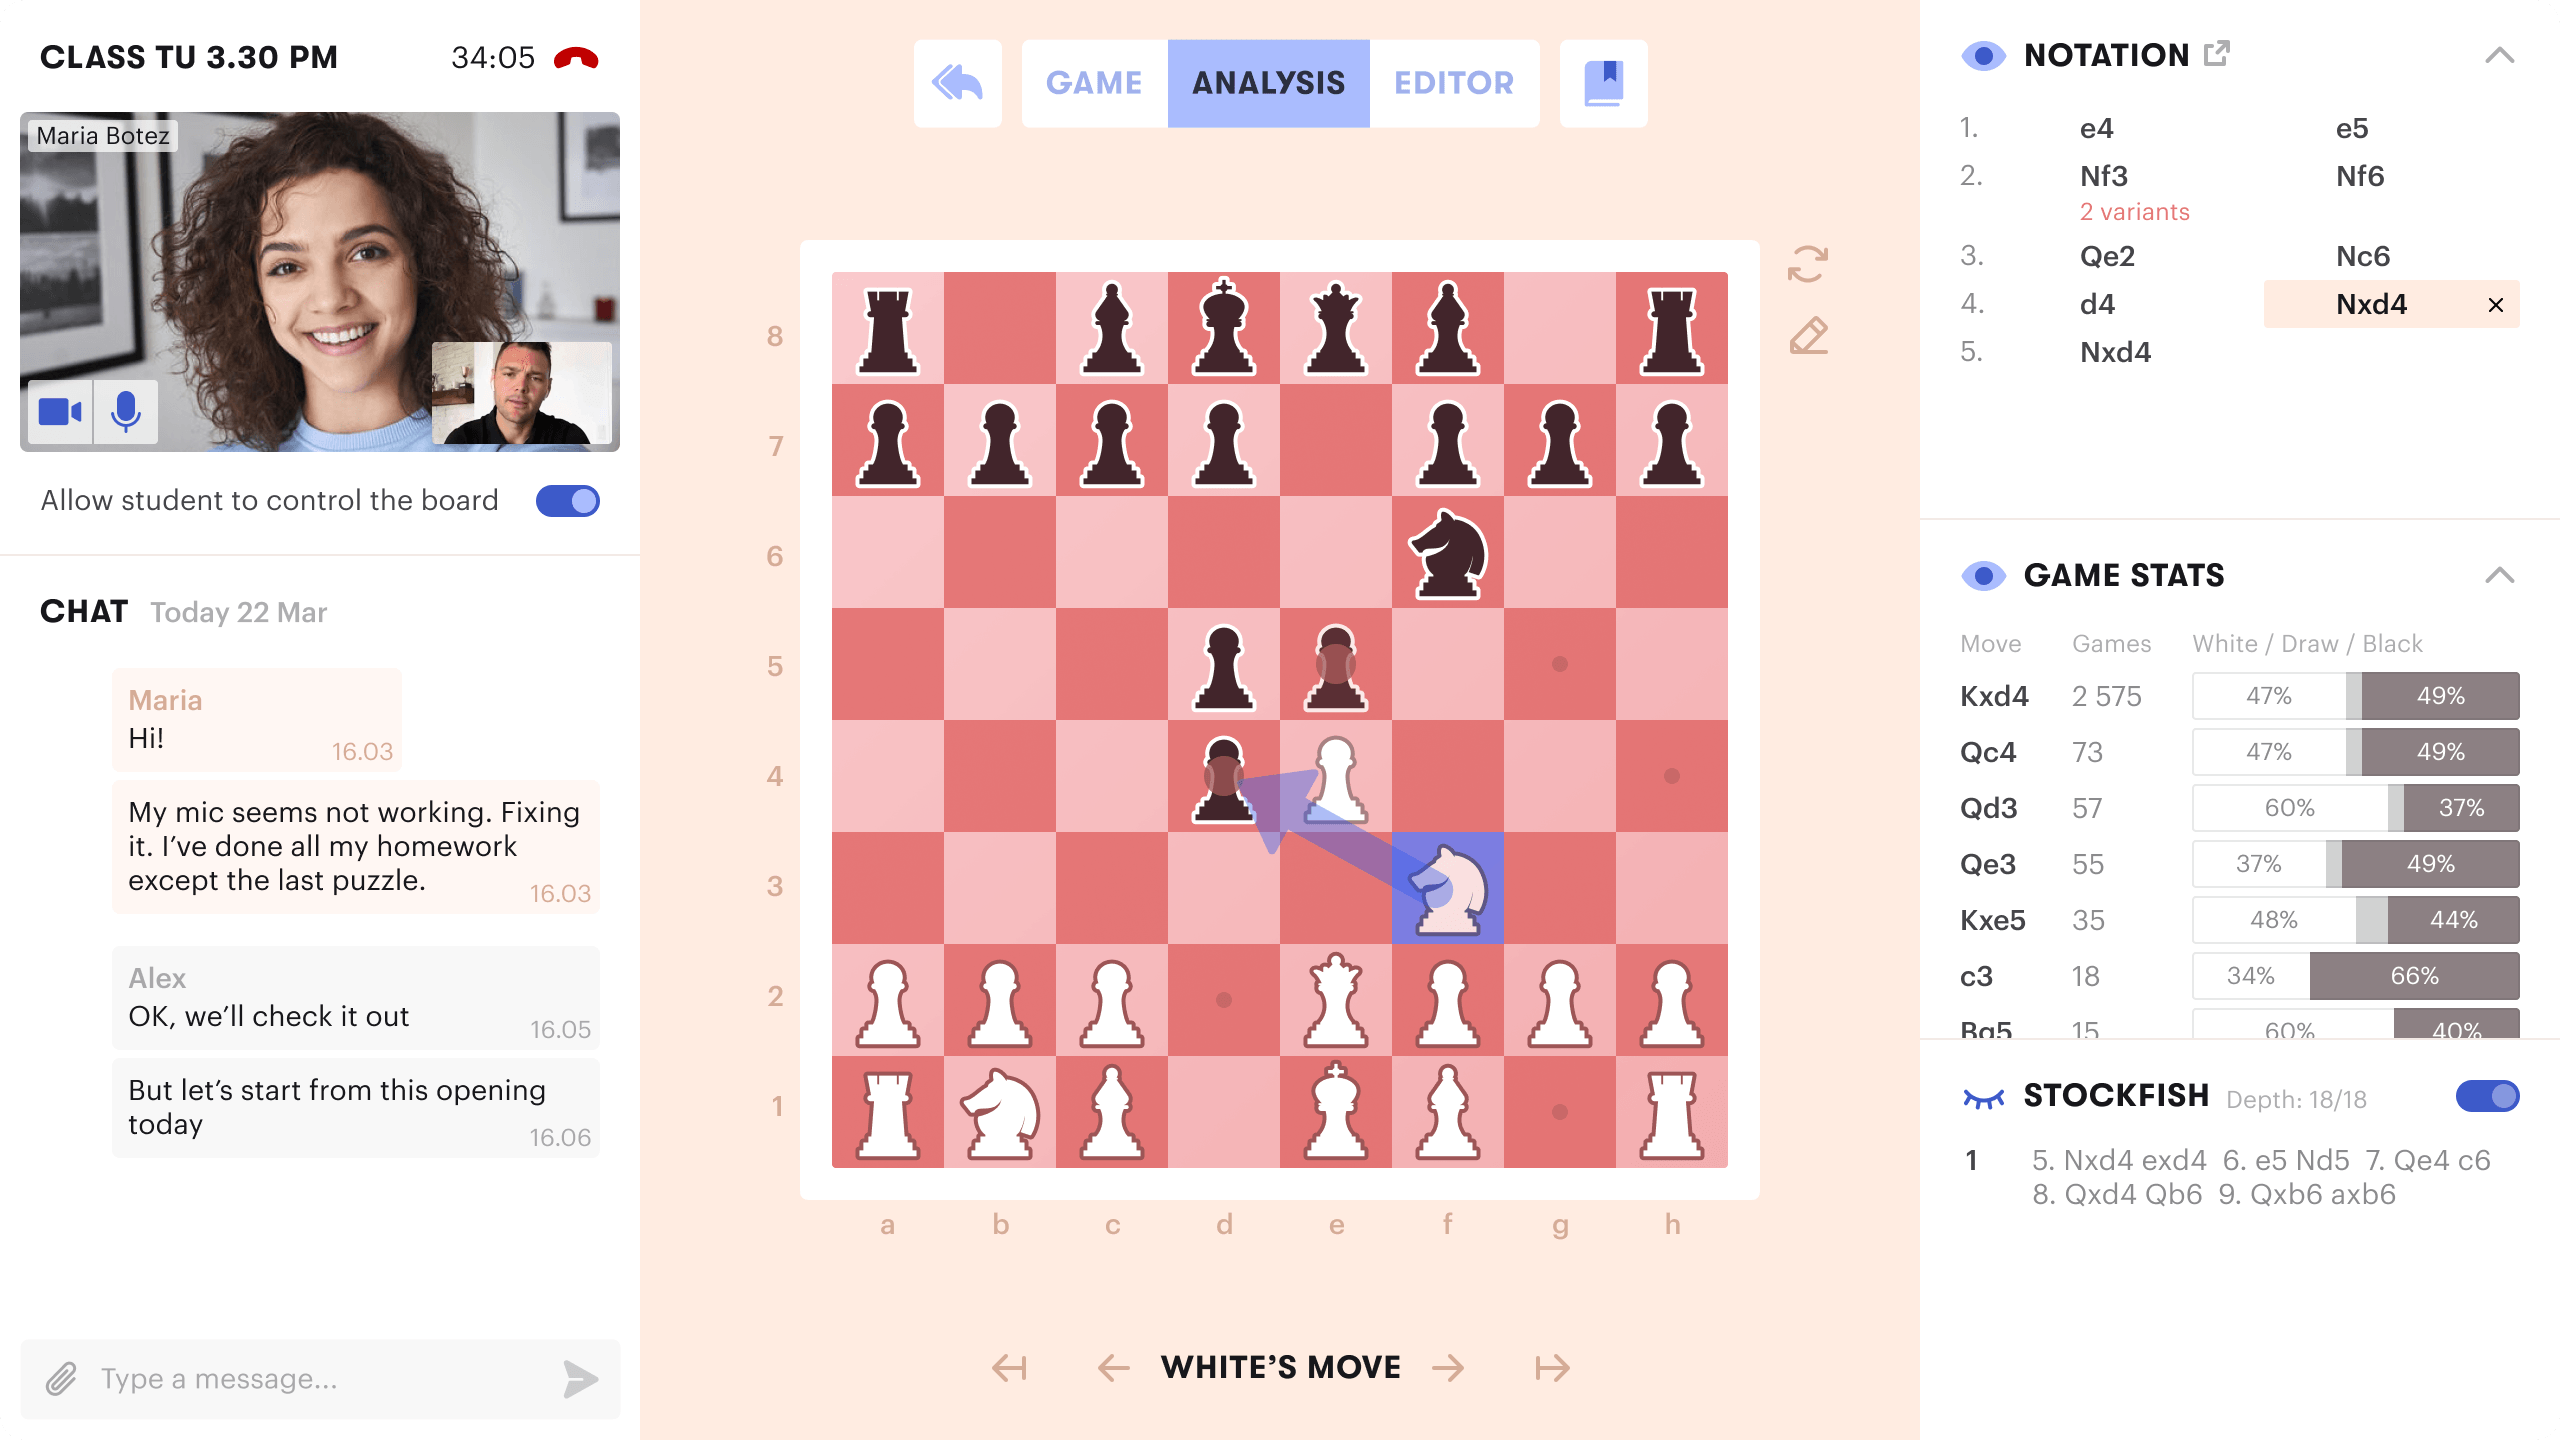
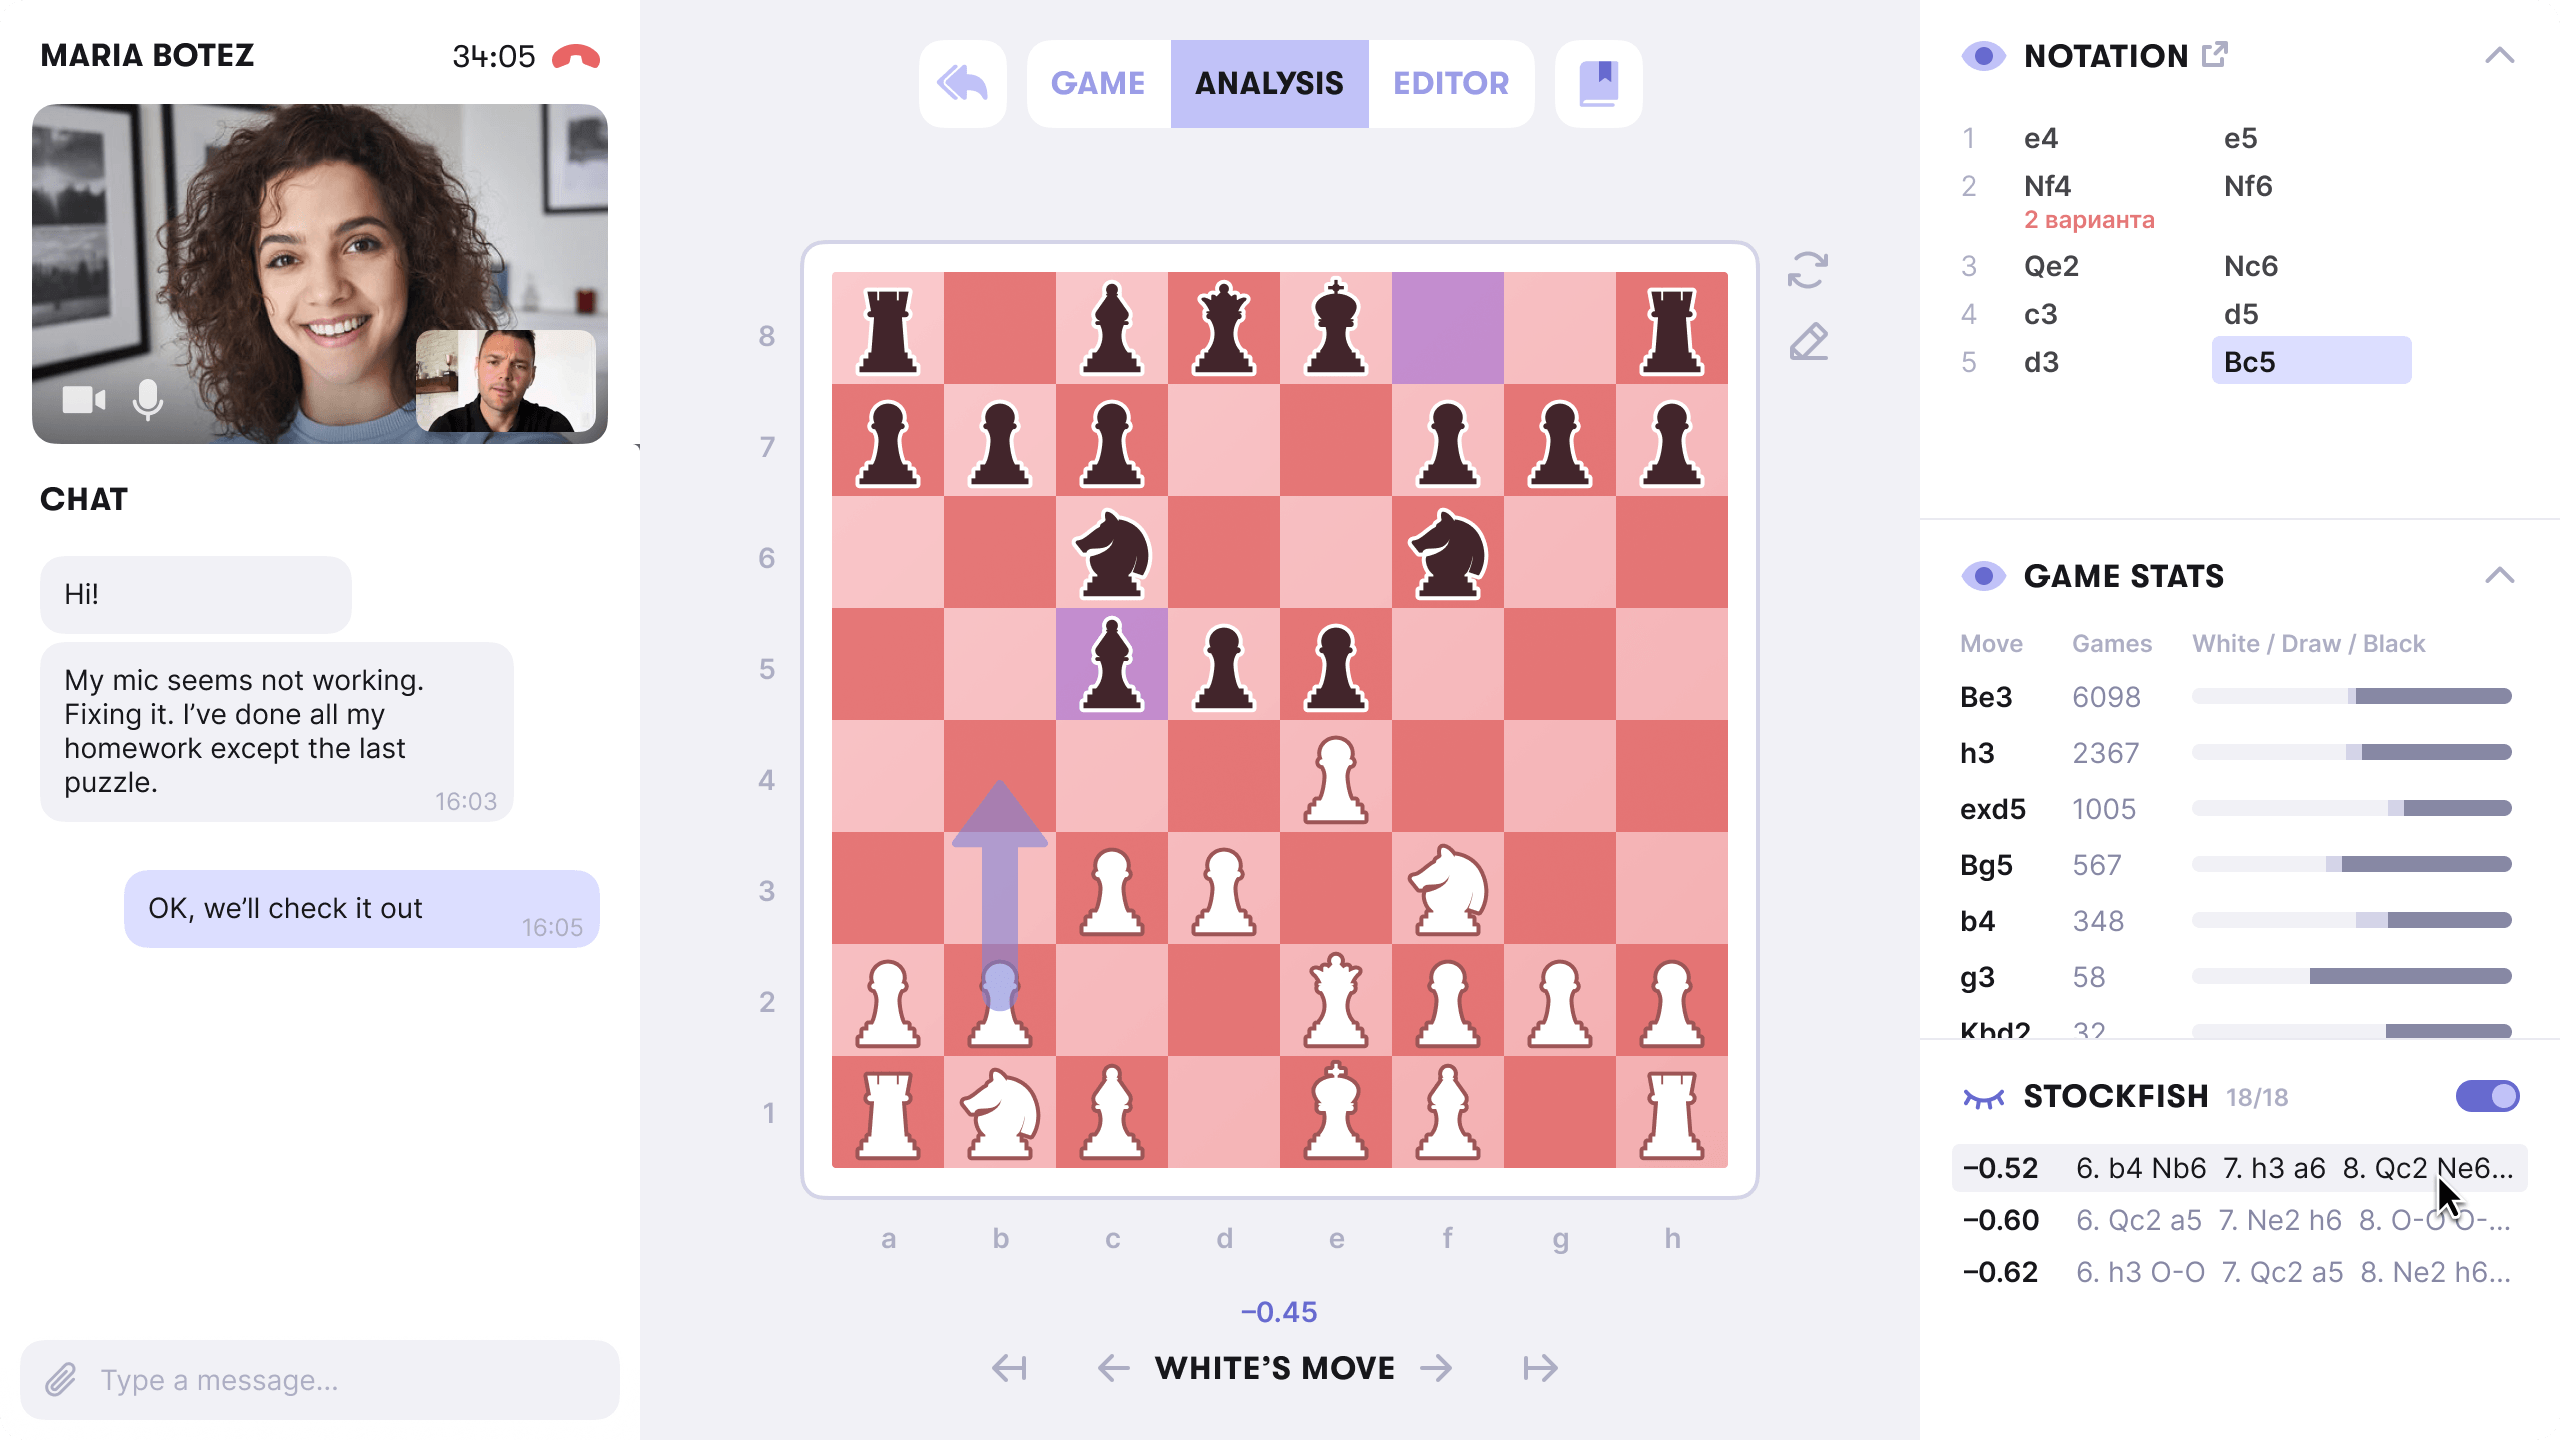
Replace the Ruchess artwork and retint shadows so they stay clear of each image.
A tilted card also stays visible until the tilt settles, instead of dropping as soon as the cursor leaves.

diff --git a/project-tilt.js b/project-tilt.js
@@ -25,6 +25,7 @@ const TILT = {
     gain: 1.5,
     minFrac: 0.01,
     fastTau: 90,
+    restTau: 180,
     lights: [
         { x: 0, y: 0, blur: 12, opacity: 0.095 },
         { x: 18, y: 36, blur: 32, opacity: 0.095 },
@@ -442,14 +443,22 @@ function useTiltSpace() {
 
 // На узкой вёрстке те же три света, но вдвое ближе и вдвое резче:
 // карточка меньше, и десктопный размах выглядит слишком большим.
-function shadowLights() {
-    if (!narrowLayout.matches) return TILT.lights;
-    return TILT.lights.map((light) => ({
-        x: light.x * 0.5,
-        y: light.y * 0.5,
-        blur: light.blur * 0.5,
-        opacity: light.opacity,
-    }));
+function readGain(project) {
+    const gain = Number.parseFloat(getComputedStyle(project).getPropertyValue("--shadow-gain"));
+    return Number.isFinite(gain) && gain > 0 ? gain : 1;
+}
+
+function shadowLights(gain = 1) {
+    const lights = narrowLayout.matches
+        ? TILT.lights.map((light) => ({
+            x: light.x * 0.5,
+            y: light.y * 0.5,
+            blur: light.blur * 0.5,
+            opacity: light.opacity,
+        }))
+        : TILT.lights;
+    if (gain === 1) return lights;
+    return lights.map((light) => ({ ...light, opacity: light.opacity * gain }));
 }
 
 function createEngine(canvas) {
@@ -754,7 +763,7 @@ function createEngine(canvas) {
         if (!layout || layout.cardW < 2 || layout.cardH < 2) return false;
         if (!img.complete || !img.naturalWidth) return false;
 
-        const lights = shadowLights();
+        const lights = shadowLights(card.gain);
         const drawPhoto = card.drawPhoto != null ? card.drawPhoto : canTilt();
         const dpr = Math.min(window.devicePixelRatio || 1, 3);
         const shW = Math.max(2, Math.round(layout.shW));
@@ -1041,7 +1050,8 @@ export function initProjectTilts() {
             card.rawAx = 0;
             card.rawAy = 0;
         } else {
-            const tau = card.finger ? 45 : TILT.fastTau;
+            const cursorReturn = canTilt() && !card.pointer;
+            const tau = card.finger ? 45 : (cursorReturn ? TILT.restTau : TILT.fastTau);
             const ease = 1 - Math.exp(-dt / tau);
             card.rawAx += (tax - card.rawAx) * ease;
             card.rawAy += (tay - card.rawAy) * ease;
@@ -1058,7 +1068,7 @@ export function initProjectTilts() {
     }
 
     function paint(card, dt) {
-        if (!card.shown()) return false;
+        if (!card.shown() && !card.settling) return false;
         useTiltSpace();
         noteOpaque(card);
         const animating = step(card, dt);
@@ -1076,7 +1086,8 @@ export function initProjectTilts() {
         slot.engine.draw(card);
         card.needsPaint = false;
         card.animating = animating;
-        return animating;
+        if (card.settling && !card.tiltLive) finishSettle(card);
+        return card.animating;
     }
 
     function tick(now) {
@@ -1085,15 +1096,44 @@ export function initProjectTilts() {
         last = now;
         let again = false;
         for (const card of cards) {
-            if (!card.shown()) continue;
+            if (!card.shown() && !card.settling) continue;
             if (!card.needsPaint && !card.animating) continue;
             if (paint(card, dt)) again = true;
         }
         if (again) schedule();
     }
 
+    function awayFromRest(card) {
+        return Math.hypot(card.rawAx, card.rawAy) > 1e-3;
+    }
+
+    // Десктоп: курсор ушёл, а карточка ещё наклонена. Держим её видимой,
+    // пока наклон доезжает до нуля тем же шагом, что и при уходе с картинки на текст.
+    function beginSettle(card) {
+        card.settling = true;
+        card.pointer = null;
+        card.wrap.classList.add("is-settling");
+        card.needsPaint = true;
+        card.animating = true;
+        schedule();
+    }
+
+    function finishSettle(card) {
+        card.settling = false;
+        card.wrap.classList.remove("is-settling");
+        card.revealed = false;
+        card.anchor = null;
+        card.pointer = null;
+        card.tiltLive = false;
+        card.needsPaint = false;
+        card.animating = false;
+        card.drawPhoto = canTilt();
+    }
+
     function resetInteraction(card) {
         if (card.finger) return;
+        card.settling = false;
+        card.wrap.classList.remove("is-settling");
         card.tiltLive = false;
         card.revealed = false;
         card.anchor = null;
@@ -1222,9 +1262,11 @@ export function initProjectTilts() {
             img,
             box,
             colors: readColors(project),
+            gain: readGain(project),
             pointer: null,
             anchor: null,
             revealed: false,
+            settling: false,
             tiltLive: false,
             rawAx: 0,
             rawAy: 0,
@@ -1244,6 +1286,10 @@ export function initProjectTilts() {
         cards.push(card);
 
         project.addEventListener("pointerenter", () => {
+            if (card.settling) {
+                card.settling = false;
+                card.wrap.classList.remove("is-settling");
+            }
             card.needsPaint = true;
             paint(card, 16);
             if (card.animating) schedule();
@@ -1254,6 +1300,10 @@ export function initProjectTilts() {
                 card.pointer = null;
                 card.needsPaint = true;
                 schedule();
+                return;
+            }
+            if (canTilt() && !narrowLayout.matches && card.tiltLive && awayFromRest(card)) {
+                beginSettle(card);
                 return;
             }
             resetInteraction(card);

diff --git a/style.css b/style.css
@@ -316,38 +316,43 @@ body.has-project-tilt .img-hover {
     --shadow: 0, 0, 0;
     --shadow-near: var(--shadow);
     --shadow-near-a: 0.10;
+    --shadow-gain: 1;
 }
 .project-profi { --shadow: 50, 58, 100; }       /* холодный голубой #E4E8FC */
-.project-ruchess { --shadow: 95, 72, 38; }      /* кремово-жёлтый #FCECE0 */
+.project-ruchess { --shadow: 24, 25, 42; }       /* индиго #676ACF */
 .project-automate { --shadow: 45, 55, 72; }     /* холодный серо-голубой #E0E4E4 */
 .project-style { --shadow: 88, 62, 58; }        /* тёплый розоватый #F4F0F0 */
 .project-tad {
-    --shadow: 45, 60, 95;                       /* холодный голубой #F0F4F8 */
-    --shadow-near: 16, 22, 38;                  /* темнее, чтобы не сливаться с чёрным UI */
+    --shadow: 8, 10, 16;                        /* холодный голубой #F0F4F8 */
+    --shadow-near: 4, 6, 10;                    /* темнее, чтобы не сливаться с чёрным UI */
     --shadow-near-a: 0.24;
+    --shadow-gain: 1.3;                         /* цвет уже у пола, иначе край не отделяется от серого UI */
 }
-.project-homestead { --shadow: 92, 78, 55; }    /* тёплый янтарь #E8E4E0 */
+.project-homestead { --shadow: 24, 35, 42; }    /* небесный #7BC6F6 */
 .project-plates { --shadow: 95, 42, 42; }       /* серый #F0F0F0 + красный #90240C */
 
 /* Если WebGL недоступен — плоская CSS-тень теми же слоями, без наклона. */
 body:not(.has-project-tilt):not(.is-safari) .img-hover-wrap {
-    filter: drop-shadow(0 0 12px rgba(var(--shadow-near), 0.095))
-            drop-shadow(18px 36px 32px rgba(var(--shadow), 0.095))
-            drop-shadow(32px 64px 43px rgba(var(--shadow), 0.07));
+    filter: drop-shadow(0 0 12px rgba(var(--shadow-near), calc(0.095 * var(--shadow-gain))))
+            drop-shadow(18px 36px 32px rgba(var(--shadow), calc(0.095 * var(--shadow-gain))))
+            drop-shadow(32px 64px 43px rgba(var(--shadow), calc(0.07 * var(--shadow-gain))));
 }
 
 /* Десктопный ховер */
 @media (min-width: 951px) {
-    body:not(.is-safari) .project:hover .img-base {
+    body:not(.is-safari) .project:hover .img-base,
+    body:not(.is-safari) .project:has(.is-settling) .img-base {
         -webkit-mask-position: var(--mask-reveal) 0%;
         mask-position: var(--mask-reveal) 0%;
     }
 
-    body.is-safari .project:hover .img-base {
+    body.is-safari .project:hover .img-base,
+    body.is-safari .project:has(.is-settling) .img-base {
         opacity: 0;
     }
 
-    .project:hover .img-hover-wrap {
+    .project:hover .img-hover-wrap,
+    .img-hover-wrap.is-settling {
         opacity: 1;
     }
 }

diff --git a/index.html b/index.html
@@ -8,8 +8,8 @@
     <meta name="author" content="Валентин Филиппов">
     <link rel="canonical" href="https://cv.around.design/">
     <link href="images/favicon.png" rel="icon">
-    <link rel="stylesheet" href="style.css?v=77">
-    <link rel="modulepreload" href="project-tilt.js?v=10">
+    <link rel="stylesheet" href="style.css?v=88">
+    <link rel="modulepreload" href="project-tilt.js?v=13">
     <link rel="modulepreload" href="hero-3d/hero-site.js?v=19">
     <link rel="modulepreload" href="hero-3d/hero-scene.js?v=12">
     <link rel="modulepreload" href="hero-3d/hero-shape.js?v=8">
@@ -131,8 +131,8 @@
             <div class="project project-ruchess">
                 <a href="https://around.design/projects/ruchess/" class="project-image-link" data-i18n-href="ruchess_link">
                     <div class="project-image">
-                        <img src="images/ruchess-sketch.png" alt="Ruchess, шахматная образовательная платформа" data-i18n-alt="ruchess_title" class="img-base">
-                        <div class="img-hover-wrap"><img src="images/ruchess-real.png" alt="Ruchess, шахматная образовательная платформа" data-i18n-alt="ruchess_title" class="img-hover"></div>
+                        <img src="images/ruchess-sketch.png?v=1" alt="Ruchess, шахматная образовательная платформа" data-i18n-alt="ruchess_title" class="img-base">
+                        <div class="img-hover-wrap"><img src="images/ruchess-real.png?v=1" alt="Ruchess, шахматная образовательная платформа" data-i18n-alt="ruchess_title" class="img-hover"></div>
                     </div>
                 </a>
                 <div class="project-text">
@@ -275,7 +275,7 @@
             const isSafari = /^((?!chrome|android).)*safari/i.test(navigator.userAgent);
             if (isSafari) document.body.classList.add('is-safari');
 
-            import("./project-tilt.js?v=10").then((mod) => mod.initProjectTilts());
+            import("./project-tilt.js?v=13").then((mod) => mod.initProjectTilts());
 
             // Плавное переключение через Observer
             if (window.innerWidth <= 950) {
